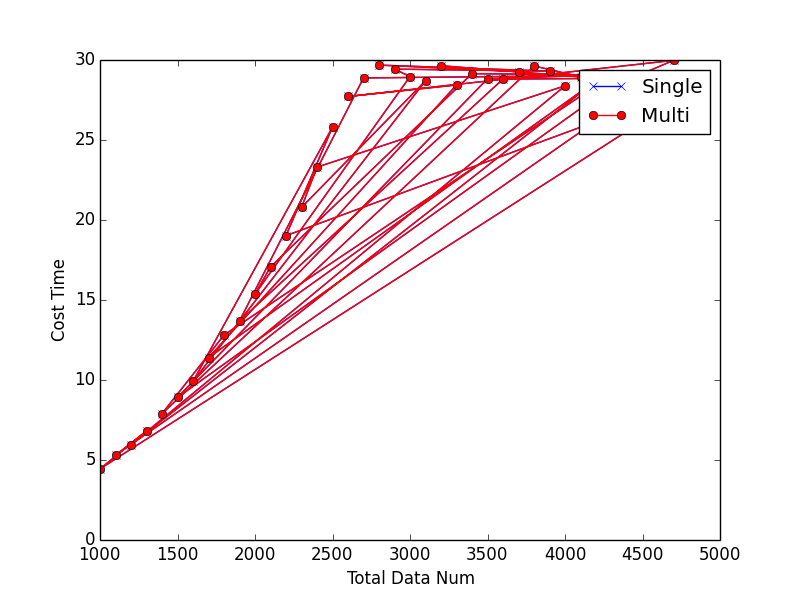
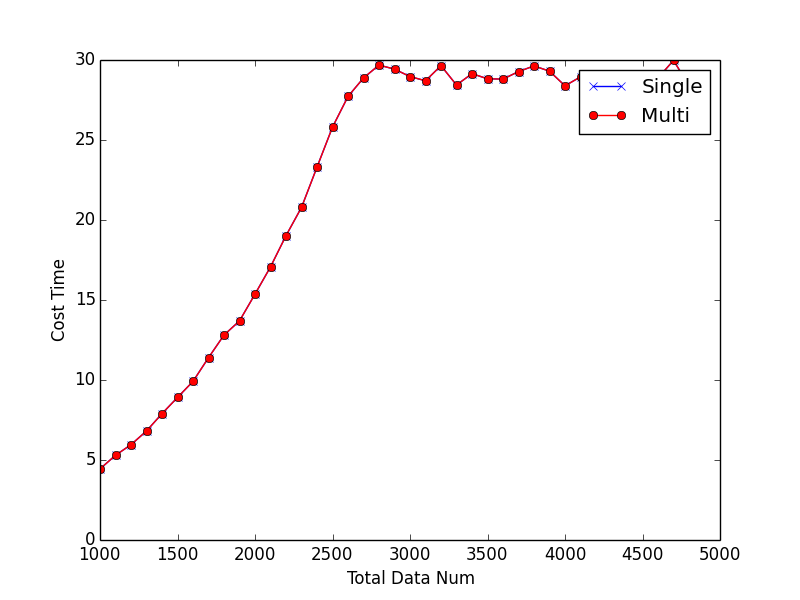
try

diff --git a/plot.py b/plot.py
@@ -105,15 +105,18 @@ if __name__ == '__main__':
 	
 
 	single_dict = {3200: 29.64471697807312, 4800: 28.393656015396118, 4100: 28.946753978729248, 1800: 12.807634115219116, 2700: 28.878325939178467, 3600: 28.807163953781128, 1300: 6.813941955566406, 2200: 19.020565032958984, 3100: 28.701494932174683, 4000: 28.385812997817993, 4400: 29.053267002105713, 1700: 11.394320011138916, 2600: 27.719489097595215, 4700: 29.97678303718567, 3500: 28.825263023376465, 1200: 5.957404136657715, 2100: 17.069204092025757, 3000: 28.964629888534546, 3900: 29.30251908302307, 1600: 9.912732124328613, 2500: 25.805445909500122, 3400: 29.146952152252197, 4300: 29.039080142974854, 1100: 5.29392409324646, 2000: 15.365304946899414, 4600: 28.872859001159668, 2900: 29.4290771484375, 3800: 29.63064193725586, 4900: 28.653519868850708, 1500: 8.909260034561157, 2400: 23.304038047790527, 3300: 28.436851024627686, 1000: 4.444137096405029, 1900: 13.69376802444458, 2800: 29.68211793899536, 4200: 28.701472997665405, 3700: 29.274412155151367, 1400: 7.897652864456177, 4500: 29.148250102996826, 2300: 20.78565287590027}
+	single_dict = collections.OrderedDict(sorted(single_dict.items()))
 	# -------------------------
+	
 	multi_dict = {3200: 29.64471697807312, 4800: 28.393656015396118, 4100: 28.946753978729248, 1800: 12.807634115219116, 2700: 28.878325939178467, 3600: 28.807163953781128, 1300: 6.813941955566406, 2200: 19.020565032958984, 3100: 28.701494932174683, 4000: 28.385812997817993, 4400: 29.053267002105713, 1700: 11.394320011138916, 2600: 27.719489097595215, 4700: 29.97678303718567, 3500: 28.825263023376465, 1200: 5.957404136657715, 2100: 17.069204092025757, 3000: 28.964629888534546, 3900: 29.30251908302307, 1600: 9.912732124328613, 2500: 25.805445909500122, 3400: 29.146952152252197, 4300: 29.039080142974854, 1100: 5.29392409324646, 2000: 15.365304946899414, 4600: 28.872859001159668, 2900: 29.4290771484375, 3800: 29.63064193725586, 4900: 28.653519868850708, 1500: 8.909260034561157, 2400: 23.304038047790527, 3300: 28.436851024627686, 1000: 4.444137096405029, 1900: 13.69376802444458, 2800: 29.68211793899536, 4200: 28.701472997665405, 3700: 29.274412155151367, 1400: 7.897652864456177, 4500: 29.148250102996826, 2300: 20.78565287590027}
-
+	multi_dict = collections.OrderedDict(sorted(multi_dict.items()))
+	
 	single_x_list = single_dict.keys()
 	single_y_list = single_dict.values()
 	multi_x_list = multi_dict.keys()
 	multi_y_list = multi_dict.values()
 	plt.ylabel('Cost Time')
-	plt.xlabel('Total Data Num')		
+	plt.xlabel('Total Data Num')
 	line_single, line_multi = plt.plot(single_x_list, single_y_list, 'bx-', multi_x_list, multi_y_list, 'ro-')
 	plt.legend([line_single, line_multi], ['Single', 'Multi'])
 	plt.savefig('graphs/single_multi_1000_5000_100.png')
